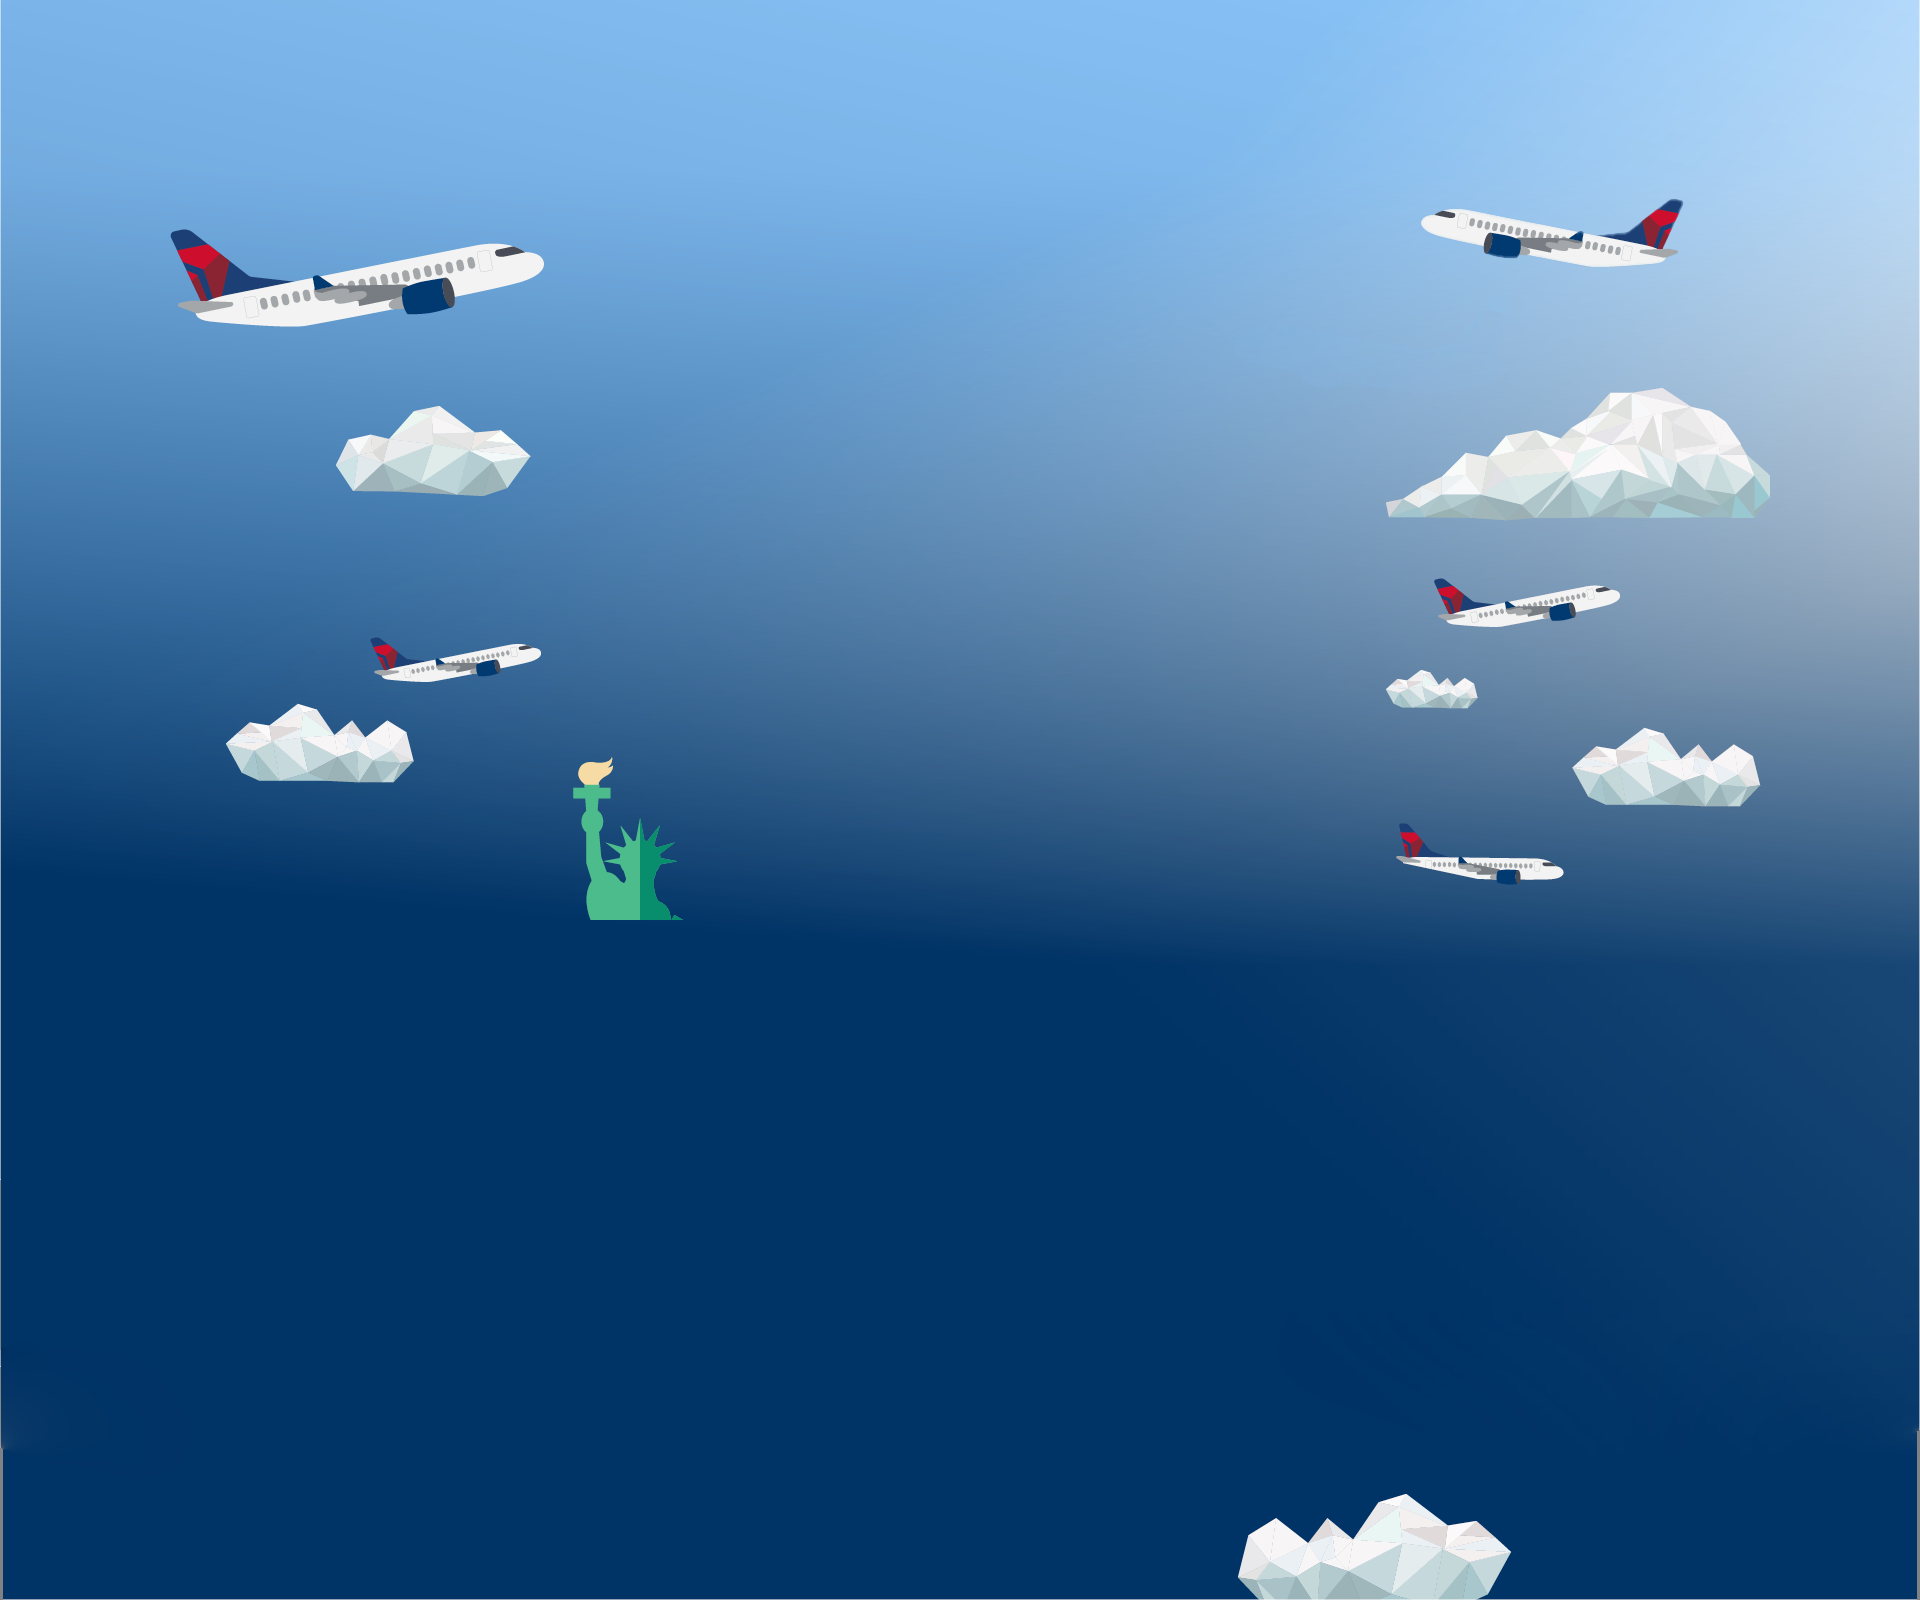
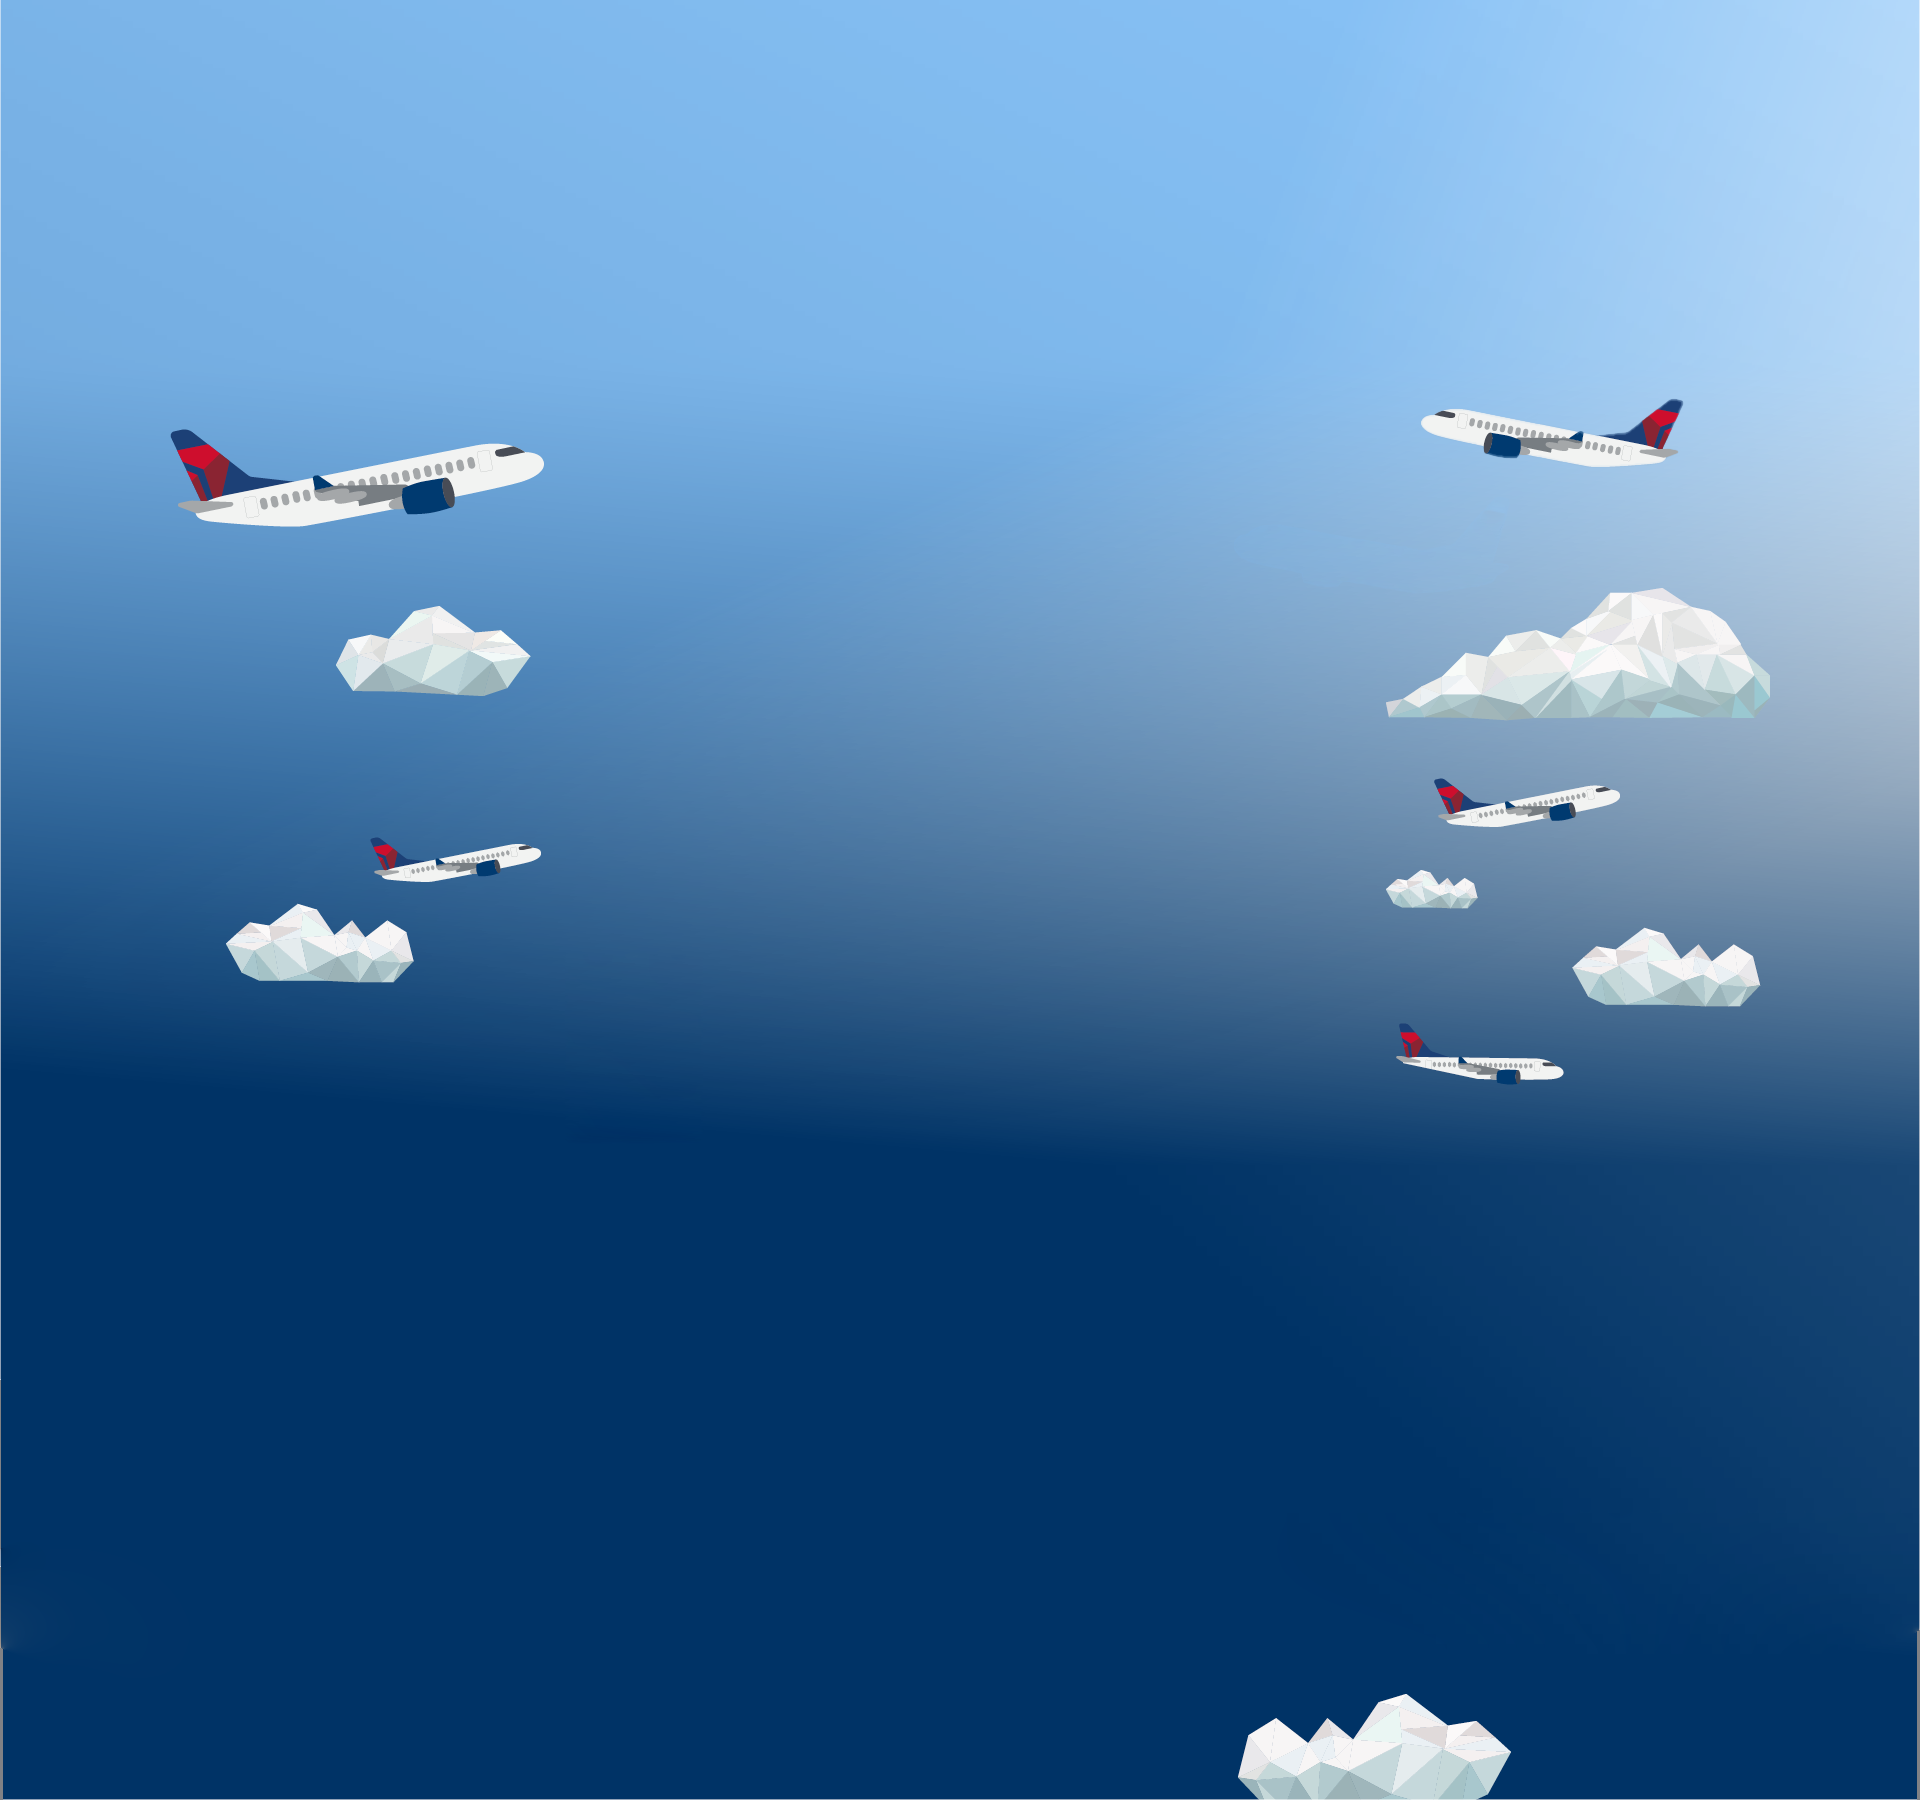
fix:statue en bas de l'écran

Changed region(s): [[0.0938, 0.125, 1.0, 0.625], [0.7188, 0.125, 0.875, 0.1875], [0.6562, 0.9375, 0.7812, 1.0]]

diff --git a/index.html b/index.html
@@ -15,14 +15,13 @@
 
     <div class="container text-center d-flex flex-column">
         <div class="row d-flex justify-content-center">
-            <div class="col col-lg-6 col-12 ">
+            <div class="col col-lg-6 col-md-9 col-12 ">
                 <div class="first">
                     <h3 class="text-primary text-start fw-bold" data-aos="zoom-in-down">Are you an airline geek&nbsp;? A Delta genius&nbsp;?<br>If so, now is your chance to test your knowledge and win some fun Delta stickers.</h3>
                 </div>
                 <form class="row g-3 mb-1">
-                    <div class="col-md-12">
                         <div class="gif-box">
-                            
+
                         </div>
                         <!-- <div class="text-box fly_box d-flex justify-content-center align-items-center p-lg-5">
                                 <img src="assets/images/animated stickers draft.gif" alt="" class="px-5 py-5" width="100%"> -->
@@ -31,7 +30,6 @@
 
                         <!-- <img src="assets/images/animated stickers draft.gif" alt="" class="py-5" width="100%"> -->
 
-                    </div>
                     <div class="col-12 mt-4 mt-lg-5 mb-5">
                         <a href="quiz.html" class="btn-delta text-white btn border-2 bg-delta-red fw-bold border-white rounded-5 px-5 fs-4">I AM READY, LET'S GO!</a>
                     </div>
@@ -39,6 +37,7 @@
             </div>
         </div>
         <footer class="col-12 mt-auto d-flex justify-content-center mb-3">
+            <img src="assets/images/freedom-statue.png" alt="freedom statue" width="110px" class="img-statue">
             <img src="assets/images/logo1.png" class="mx-auto logo-footer">
         </footer>
     </div>

diff --git a/assets/css/styles.css b/assets/css/styles.css
@@ -34,7 +34,7 @@
 .bg01 {
     background: url(../images/01.png) no-repeat center;
     background-size: 110%; 
-    background-position-y: 15%; 
+    background-position-y:30%; 
     min-height: 100vh;
 }
 
@@ -101,7 +101,7 @@ input::placeholder{
     background-color: #fff;
 }
 
-@media (max-width: 600px) {
+@media (max-width: 768px) {
 
     .w-75,
     .w-50 {
@@ -143,6 +143,18 @@ input::placeholder{
         min-height: 100vh;
     }
 
+    .img-statue {
+        display:none;
+    }
+
+}
+
+@media only screen and (min-width: 768px) and (max-width: 991px) {
+    .bg01 {
+        background: url(../images/01.png) no-repeat center;
+        background-size: cover; 
+        min-height: 100vh;
+    }
 }
 
 /* @media screen and (min-width: 601px) {
@@ -168,7 +180,7 @@ input.form-delta {
     color: #003A70 !important;
     background-color: #f9f9f9 !important;
     font-weight: bold !important;
-    height: 48px;
+    height:48px;
 }
 
 .btn-delta {
@@ -263,3 +275,13 @@ footer {
     transform: translateY(-500px); 
     transition: opacity 0.5s ease-in, transform 0.6s ease-out; 
 } */
+
+.footer {
+    position:relative;
+}
+
+.img-statue {
+    position:absolute;
+    bottom:0;
+    left:110px;
+}

diff --git a/thank-you.html b/thank-you.html
@@ -35,6 +35,7 @@
                 </div>
             </div>
             <footer class="col-12 mt-3 mt-auto d-flex justify-content-center mb-3">
+                <img src="assets/images/freedom-statue.png" alt="freedom statue" width="110px" class="img-statue">
                 <img src="assets/images/logo1.png"  class="mx-auto logo-footer">
             </footer>
         </div>

diff --git a/lost.html b/lost.html
@@ -67,6 +67,7 @@
             </div>
         </div>
         <footer class="col-12 mt-auto d-flex justify-content-center mb-3">
+            <img src="assets/images/freedom-statue.png" alt="freedom statue" width="110px" class="img-statue">
             <img src="assets/images/logo1.png"  class="mx-auto logo-footer">
         </footer>
     </div>

diff --git a/quiz-2.html b/quiz-2.html
@@ -66,6 +66,7 @@
             </div>
         </div>
         <footer class="col-12 mt-auto d-flex justify-content-center mb-3">
+            <img src="assets/images/freedom-statue.png" alt="freedom statue" width="110px" class="img-statue">
             <img src="assets/images/logo1.png"  class="mx-auto logo-footer">
         </footer>
     </div>

diff --git a/answers.html b/answers.html
@@ -92,6 +92,7 @@
         </div>
 
         <footer class="col-12 mt-auto d-flex justify-content-center mb-3">
+            <img src="assets/images/freedom-statue.png" alt="freedom statue" width="110px" class="img-statue">
             <img src="assets/images/logo1.png"  class="mx-auto logo-footer">
         </footer>
     </div>

diff --git a/quiz.html b/quiz.html
@@ -67,6 +67,7 @@
         </div>
 
         <footer class="col-12 mt-auto d-flex justify-content-center mb-3">
+            <img src="assets/images/freedom-statue.png" alt="freedom statue" width="110px" class="img-statue">
             <img src="assets/images/logo1.png"  class="mx-auto logo-footer">
         </footer>
     </div>

diff --git a/won.html b/won.html
@@ -61,6 +61,7 @@
             </div>
         </div>
         <footer class="col-12 mt-auto mt-3 d-flex justify-content-center mb-3">
+            <img src="assets/images/freedom-statue.png" alt="freedom statue" width="110px" class="img-statue">
             <img src="assets/images/logo1.png">
         </footer>
     </div>
